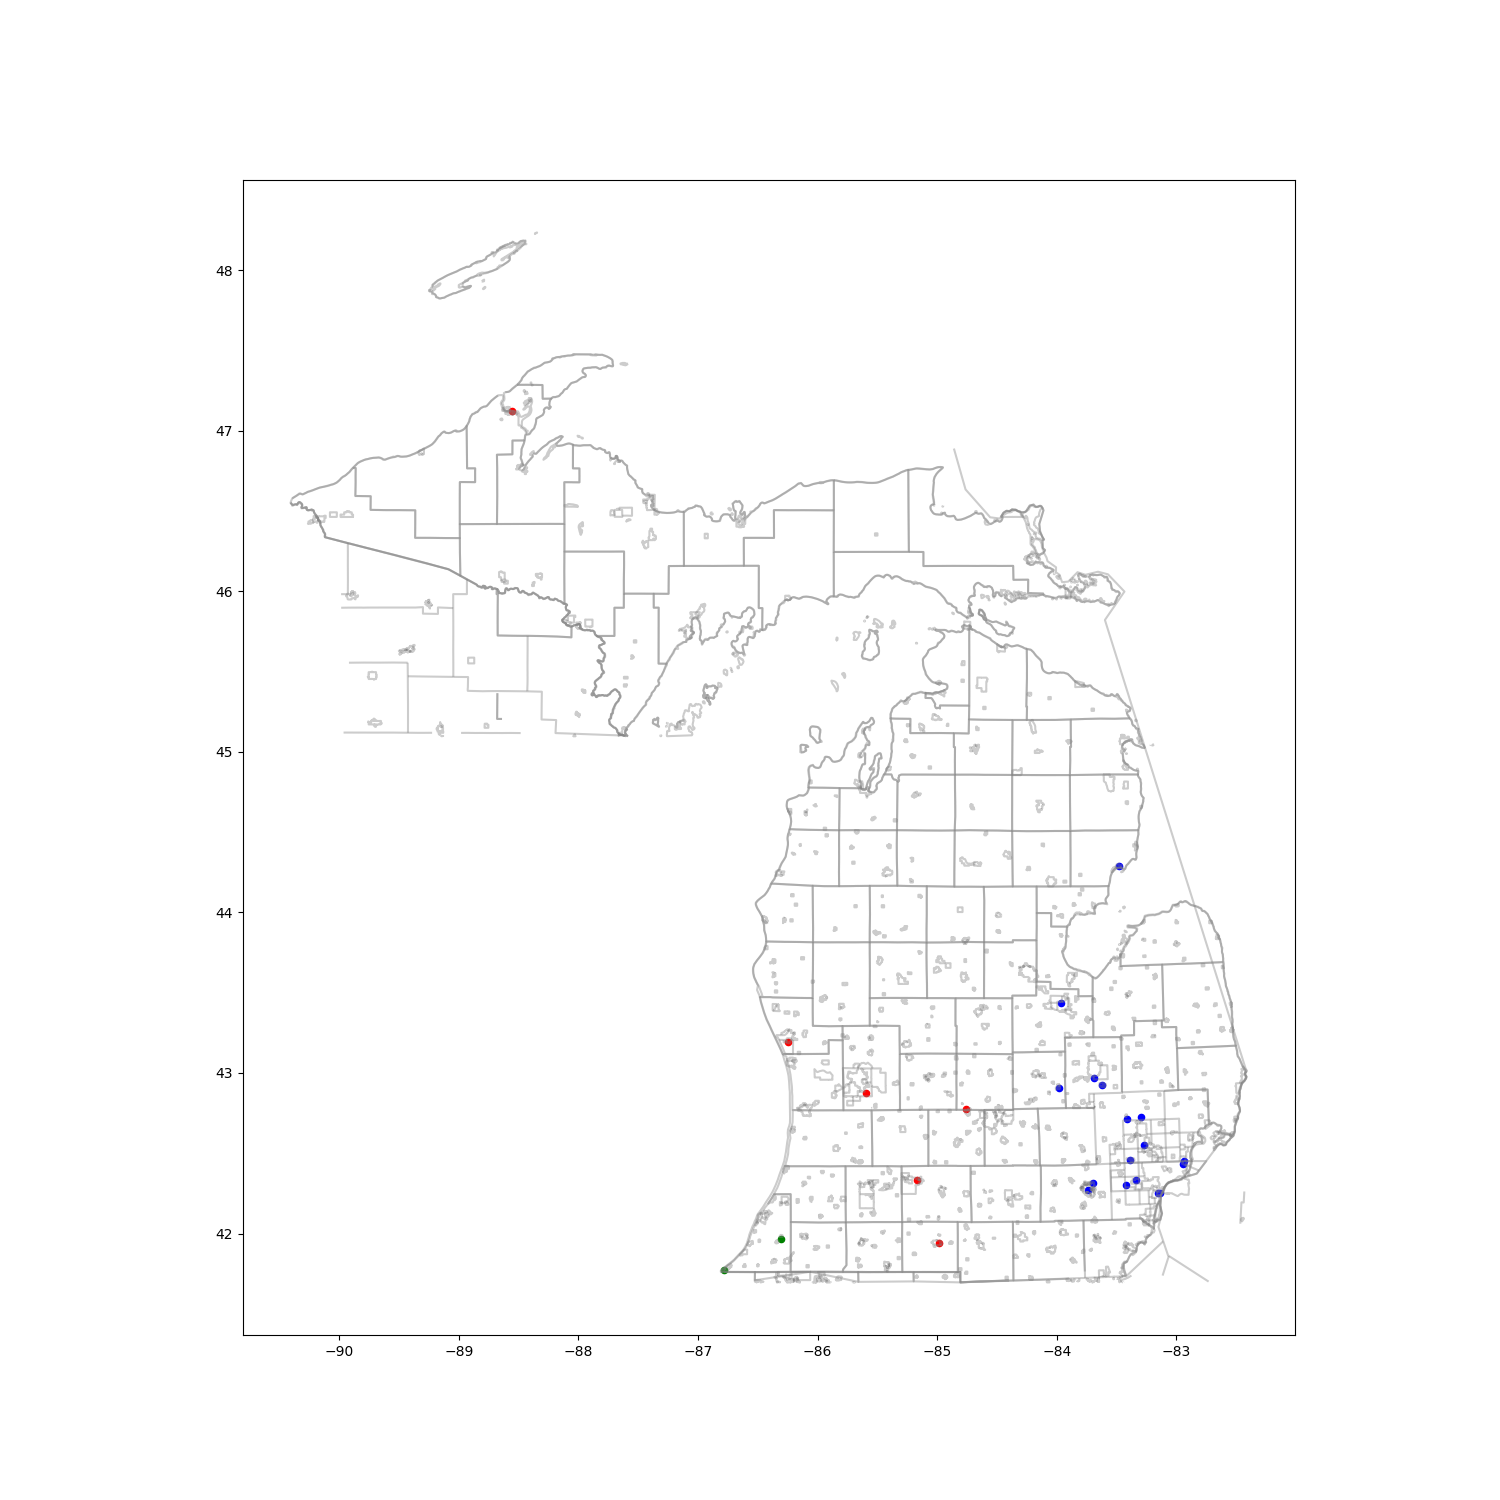
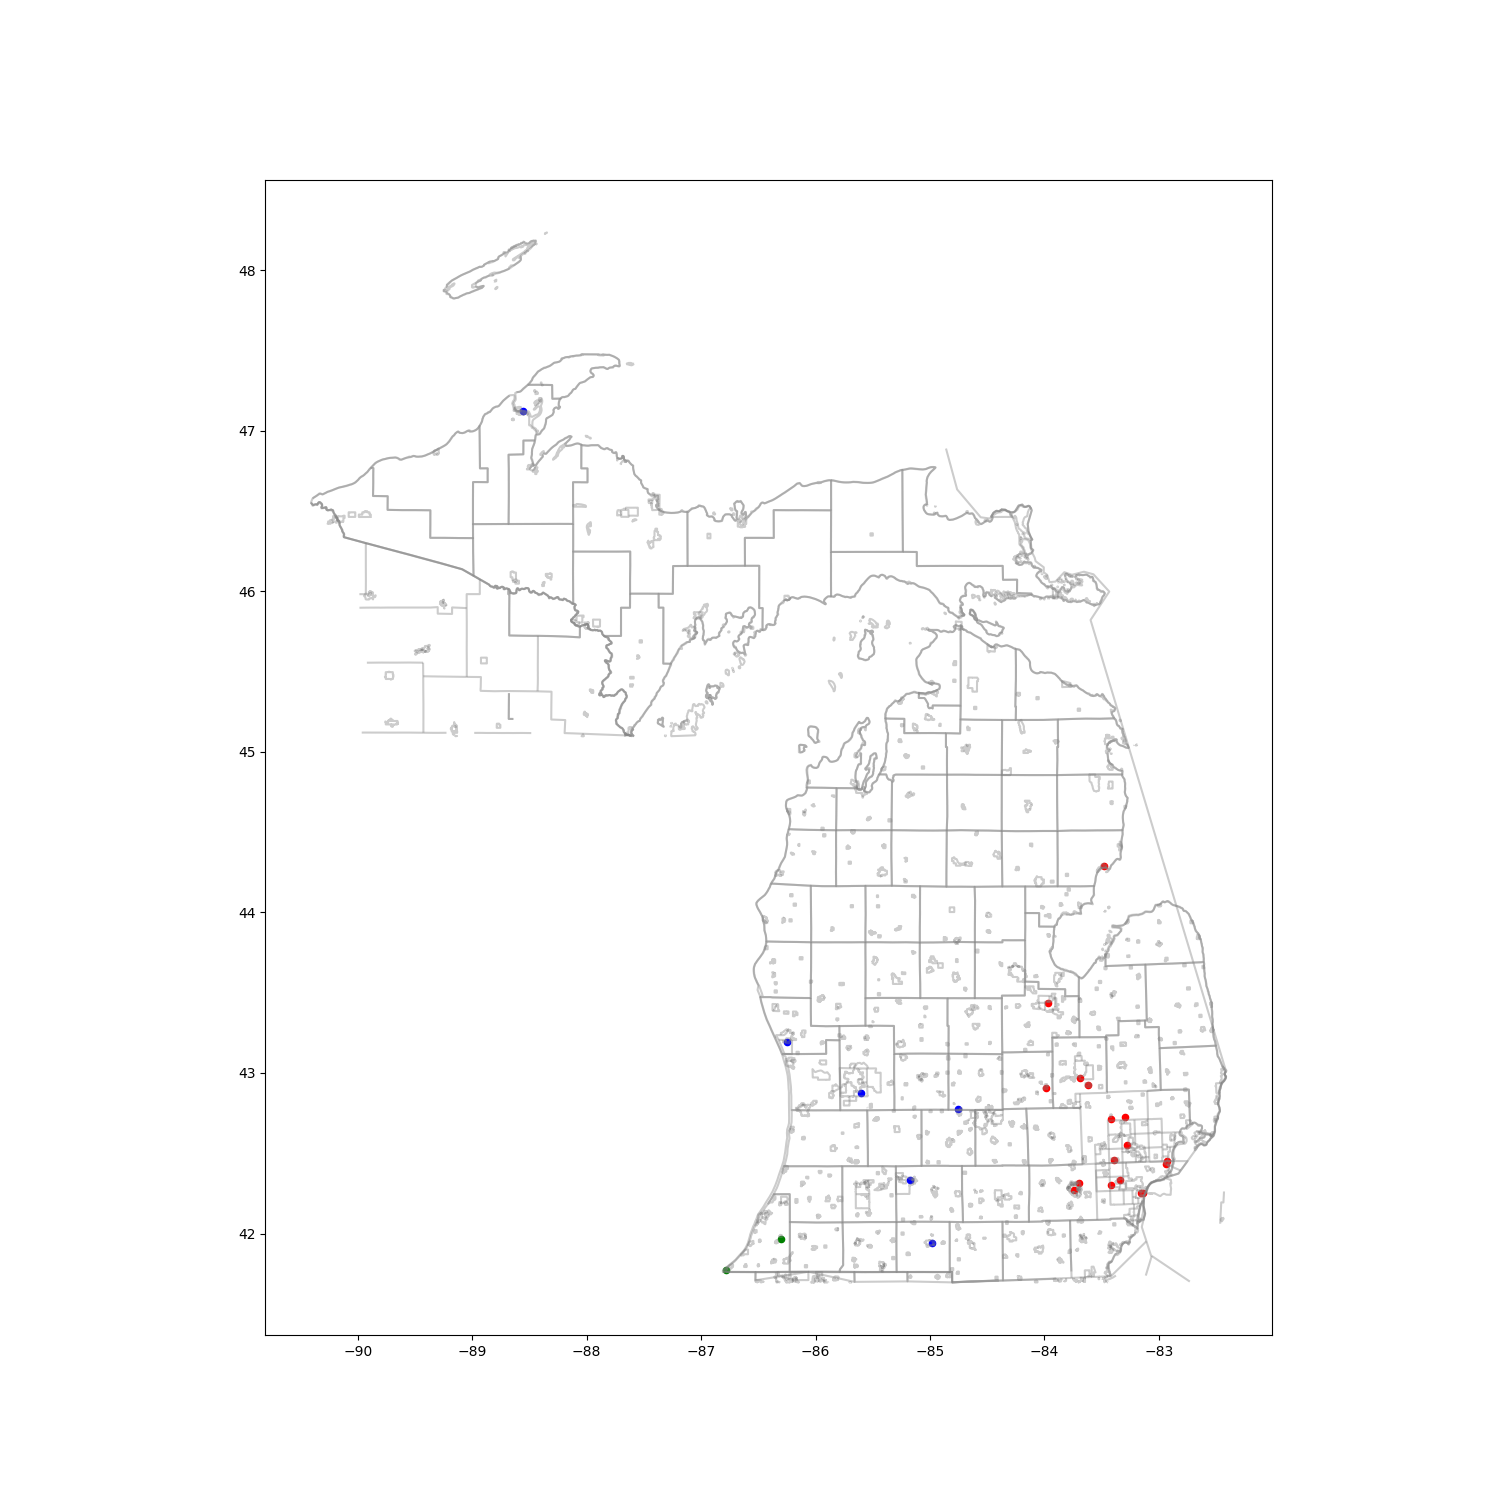
fully functional test run

diff --git a/scripts.py b/scripts.py
@@ -13,6 +13,7 @@ from sklearn.cluster import SpectralClustering
 
 api_file = open('API', 'r')
 geolocator = GoogleV3(api_key=api_file.readline())
+colors = ['red', 'green', 'blue', 'yellow', 'orange', 'purple', 'cyan', 'black', 'brown', 'olive']
 
 def add_lat_lon(voter):
     address = voter["residence_street_number"] + " "
@@ -21,11 +22,11 @@ def add_lat_lon(voter):
     address += voter["street_name"] + " " + voter["street_type"] + ", "
     address += voter["city"] + ", " + voter["state"] + " " + voter["zip"] + ", USA"
 
-    # location = geolocator.geocode(address)
+    location = geolocator.geocode(address)
 
     voter["complete_address"] = address
-    # voter["latitude"] = location.latitude
-    # voter["longitude"] = location.longitude
+    voter["latitude"] = location.latitude
+    voter["longitude"] = location.longitude
 
 def lst_format(line):
     voter = {
@@ -111,7 +112,6 @@ def main():
     output_json.write(json.dumps(processed_subset))
     output_json.close()
     
-    # TODO: plot the data
     df = pd.DataFrame(processed_subset)
     crs = {'init': 'epsg:4326'}
     geometry = [Point(xy) for xy in zip(df['longitude'], df['latitude'])]
@@ -119,9 +119,8 @@ def main():
     street_map = gpd.read_file('./michigan_administrative/michigan_administrative.shp')
     fig, ax = plt.subplots(figsize = (15, 15))
     out = street_map.plot(ax = ax, alpha=0.4, color='grey')
-    geo_df[geo_df['cluster'] == 0].plot(ax=ax, markersize=20, color='blue', marker='o')
-    geo_df[geo_df['cluster'] == 1].plot(ax=ax, markersize=20, color='red', marker='o')
-    geo_df[geo_df['cluster'] == 2].plot(ax=ax, markersize=20, color='green', marker='o')
+    for i in range(CLUSTERS):
+        geo_df[geo_df['cluster'] == i].plot(ax=ax, markersize=20, color=colors[i%len(colors)], marker='o')
 
     fig = out.get_figure()  
     fig.savefig("map.png")  
